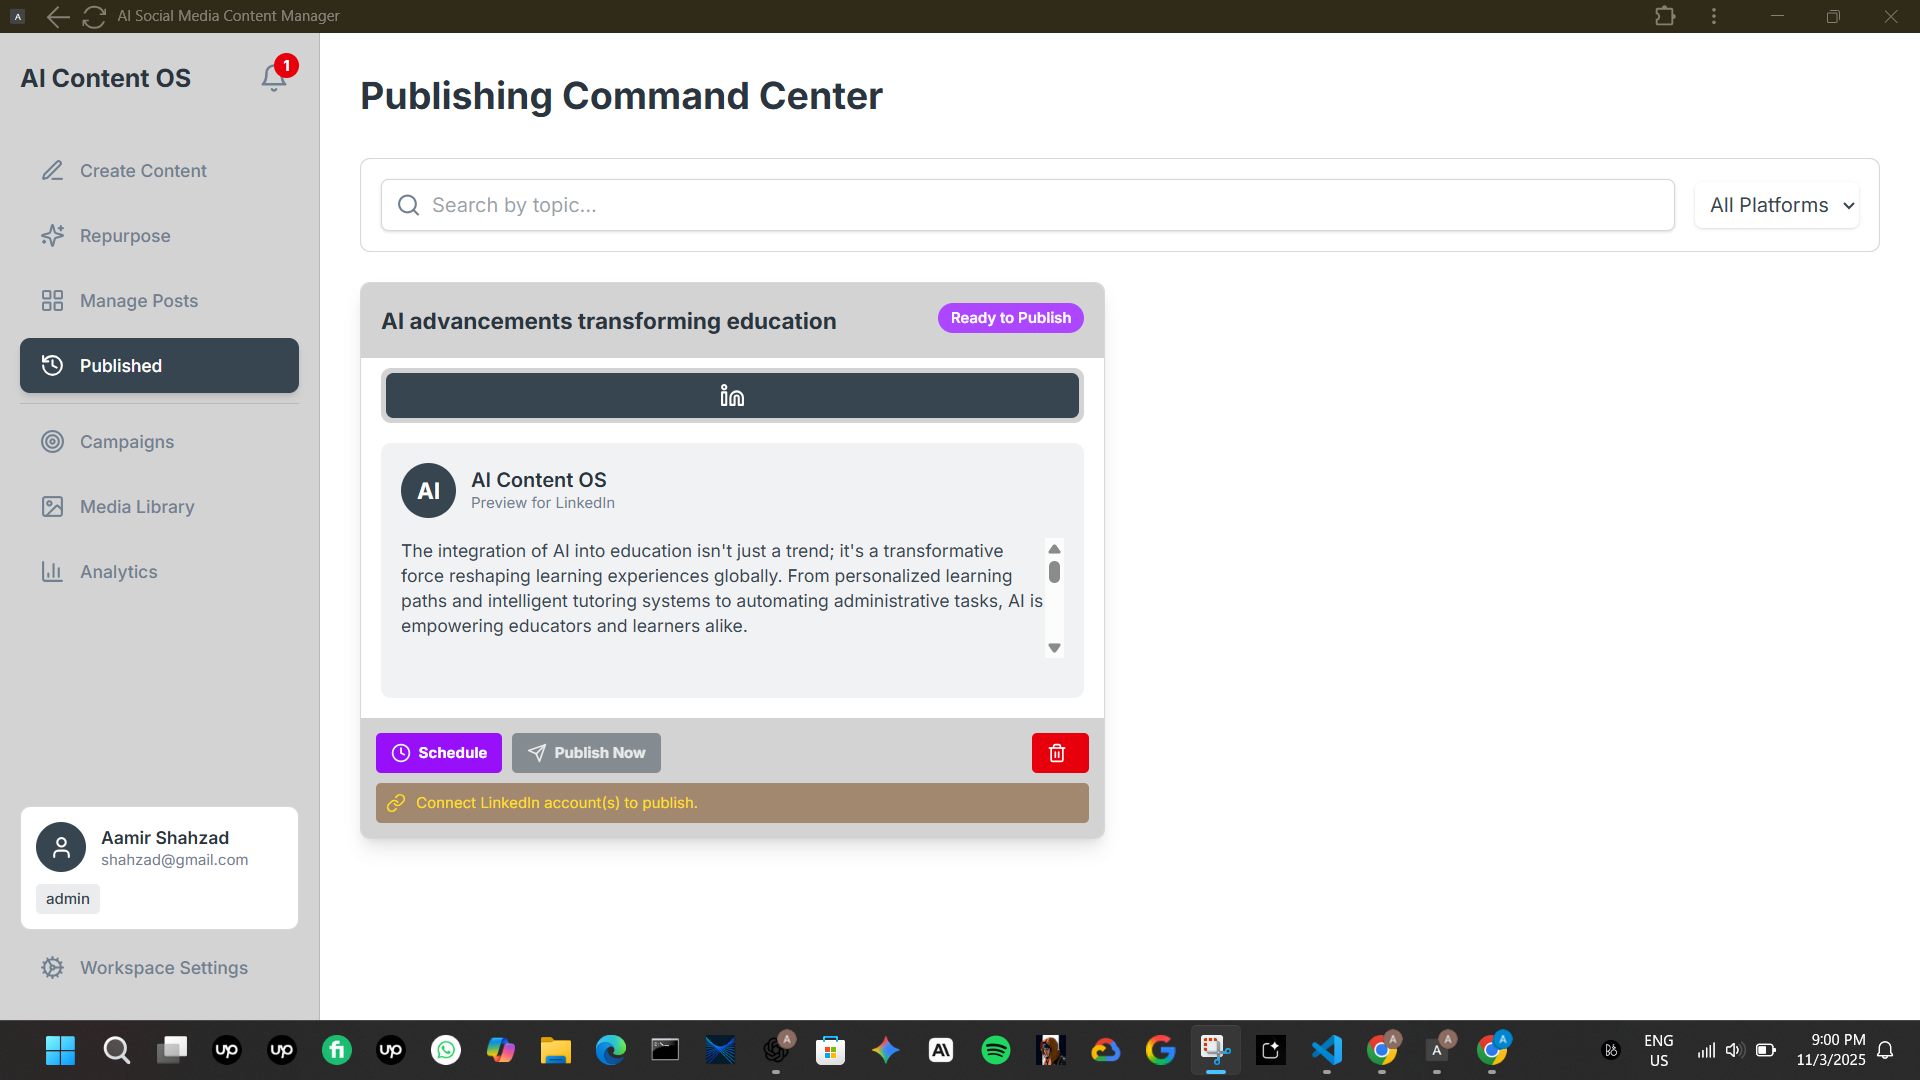
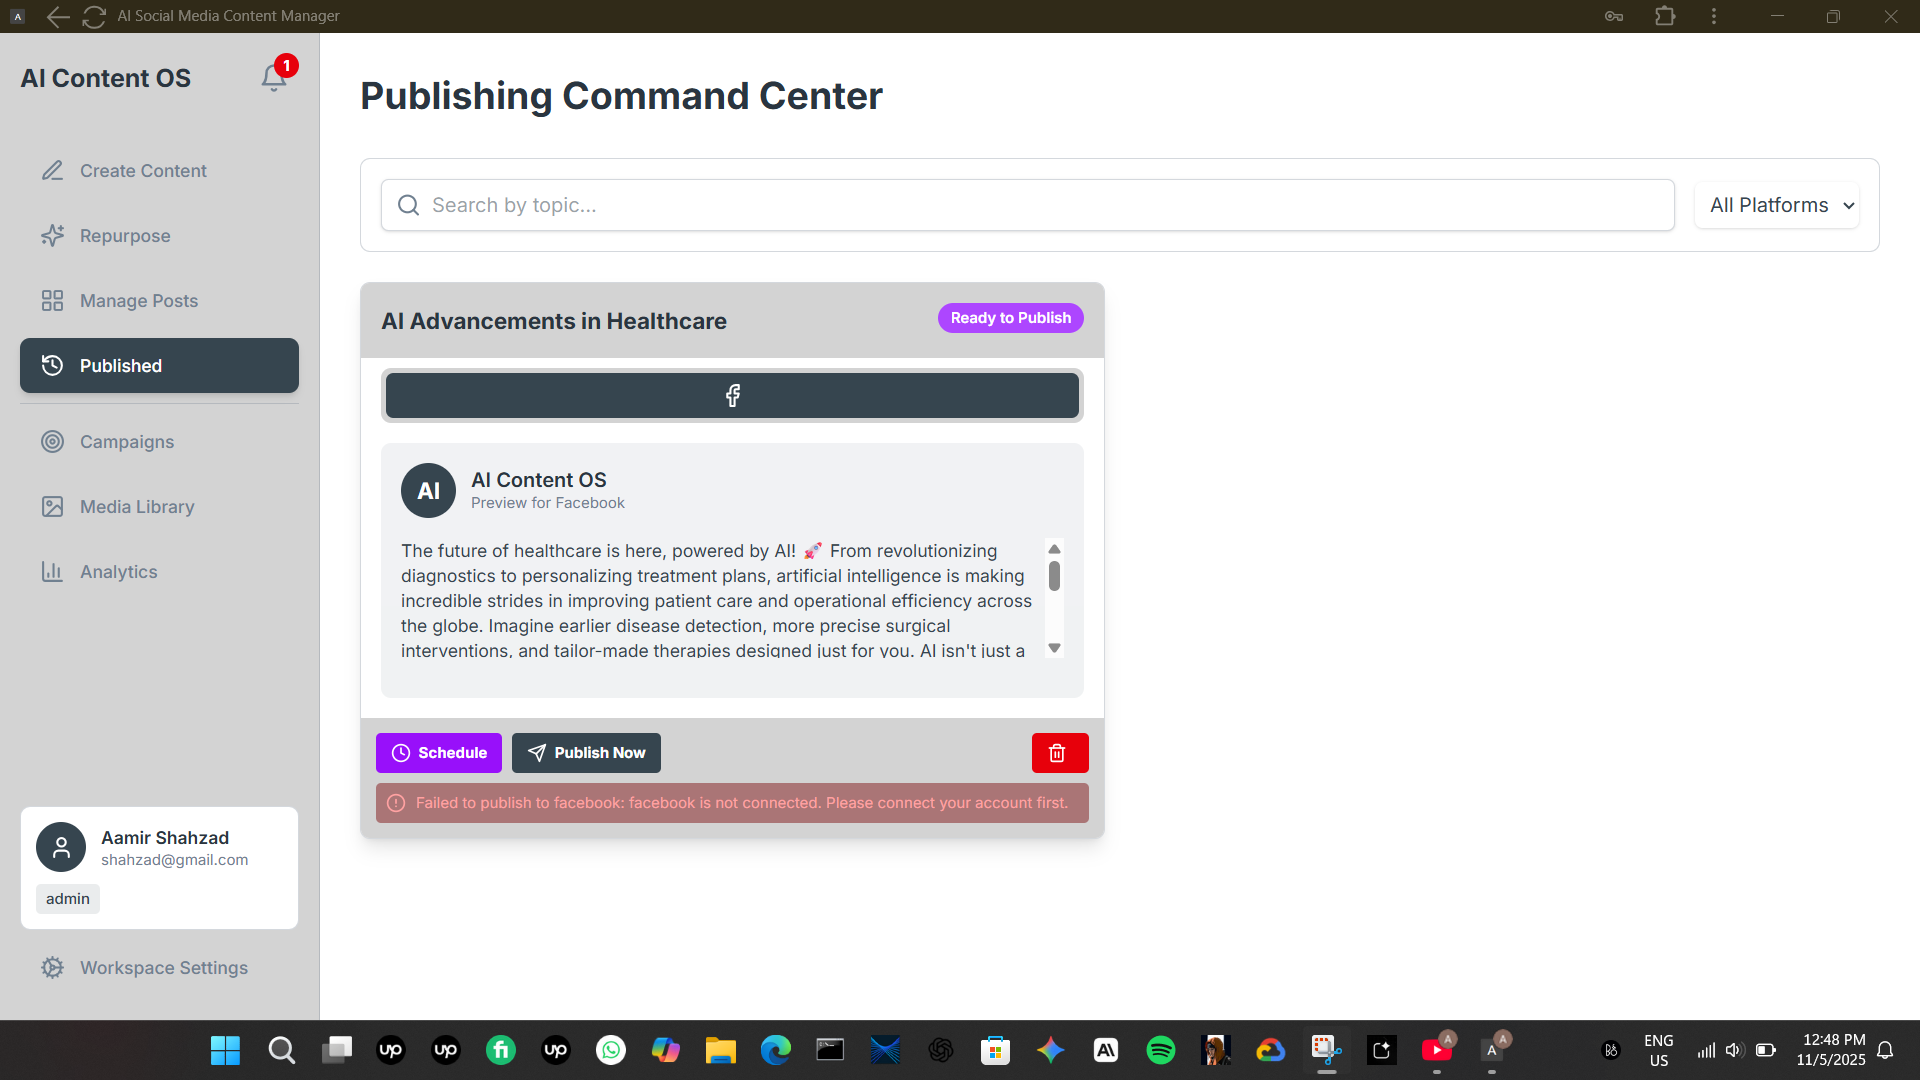
fix: Resolve Facebook publishing connection error by removing client-side credential checks
The publishing service was checking credentials from localStorage (deprecated, empty)
before calling backend APIs, causing "Facebook is not connected" errors even though
the account was properly connected.

Root Cause:
- Two credential services exist: database-based (current) and localStorage-based (deprecated)
- OAuth flow saves credentials to database only
- Publishing service was checking localStorage instead of database
- Publishing failed before reaching backend APIs that validate correctly

Solution (Quick Fix Approach):
- Remove client-side credential checks from publishingService.ts
- Remove deprecated getPlatformCredentials import from localStorage service
- Update all platform services to skip client-side checks
- Let backend APIs handle credential validation from database (correct approach)

Changes:
✓ publishingService.ts: Removed localStorage credential check, always call backend
✓ facebookService.ts: Removed isConnected checks, backend validates
✓ twitterService.ts: Removed isConnected checks, backend validates
✓ linkedinService.ts: Removed isConnected checks, backend validates
✓ instagramService.ts: Removed isConnected checks, backend validates

Backend APIs already properly validate credentials from database:
✓ /api/facebook/post validates and returns "Facebook not connected" if needed
✓ /api/twitter/post validates and returns "Twitter not connected" if needed
✓ Similar validation for LinkedIn and Instagram
[…]

diff --git a/src/services/publishingService.ts b/src/services/publishingService.ts
@@ -1,5 +1,4 @@
 import { Platform, Post, PostContent, TwitterCredentials, LinkedInCredentials, FacebookCredentials, InstagramCredentials } from '@/types';
-import { getPlatformCredentials } from './credentialService';
 import { postTweet, uploadTwitterMedia } from './platforms/twitterService';
 import { postToLinkedIn, uploadLinkedInMedia } from './platforms/linkedinService';
 import { postToFacebook, uploadFacebookPhoto } from './platforms/facebookService';
@@ -24,20 +23,13 @@ export async function publishToSinglePlatform(
 ): Promise<PublishResult> {
   // Auto-detect media type if not provided
   if (!mediaType && mediaUrl) {
-    mediaType = (mediaUrl.includes('.mp4') || mediaUrl.includes('.mov') || mediaUrl.includes('video')) 
-      ? 'video' 
+    mediaType = (mediaUrl.includes('.mp4') || mediaUrl.includes('.mov') || mediaUrl.includes('video'))
+      ? 'video'
       : 'image';
   }
   try {
-    const credentials = getPlatformCredentials(platform);
-
-    if (!credentials || !credentials.isConnected) {
-      return {
-        platform,
-        success: false,
-        error: `${platform} is not connected. Please connect your account first.`
-      };
-    }
+    // Create empty credentials object - backend API will validate actual credentials from database
+    const emptyCredentials = {} as any;
 
     let result;
 
@@ -47,8 +39,8 @@ export async function publishToSinglePlatform(
         let mediaIds: string[] | undefined;
         if (mediaUrl) {
           const mediaResult = await uploadTwitterMedia(
-            credentials as TwitterCredentials, 
-            mediaUrl, 
+            emptyCredentials as TwitterCredentials,
+            mediaUrl,
             mediaType || 'image'
           );
           if (mediaResult.success && mediaResult.mediaId) {
@@ -56,7 +48,7 @@ export async function publishToSinglePlatform(
           }
         }
 
-        result = await postTweet(credentials as TwitterCredentials, {
+        result = await postTweet(emptyCredentials as TwitterCredentials, {
           text: content,
           mediaIds
         });
@@ -68,7 +60,7 @@ export async function publishToSinglePlatform(
         let mediaUrn: string | undefined;
         if (mediaUrl) {
           const mediaResult = await uploadLinkedInMedia(
-            credentials as LinkedInCredentials, 
+            emptyCredentials as LinkedInCredentials,
             mediaUrl,
             mediaType || 'image'
           );
@@ -77,7 +69,7 @@ export async function publishToSinglePlatform(
           }
         }
 
-        result = await postToLinkedIn(credentials as LinkedInCredentials, {
+        result = await postToLinkedIn(emptyCredentials as LinkedInCredentials, {
           text: content,
           visibility: 'PUBLIC',
           mediaUrn
@@ -89,13 +81,13 @@ export async function publishToSinglePlatform(
         // Handle media upload if present
         let imageUrl: string | undefined;
         if (mediaUrl) {
-          const mediaResult = await uploadFacebookPhoto(credentials as FacebookCredentials, mediaUrl);
+          const mediaResult = await uploadFacebookPhoto(emptyCredentials as FacebookCredentials, mediaUrl);
           if (mediaResult.success && mediaResult.imageUrl) {
             imageUrl = mediaResult.imageUrl;
           }
         }
 
-        result = await postToFacebook(credentials as FacebookCredentials, {
+        result = await postToFacebook(emptyCredentials as FacebookCredentials, {
           message: content,
           imageUrl: imageUrl,
           mediaType: mediaType
@@ -113,7 +105,7 @@ export async function publishToSinglePlatform(
         }
 
         // Upload media to get public URL (Instagram requires public URLs)
-        const mediaResult = await uploadInstagramMedia(credentials as InstagramCredentials, mediaUrl);
+        const mediaResult = await uploadInstagramMedia(emptyCredentials as InstagramCredentials, mediaUrl);
         if (!mediaResult.success || !mediaResult.imageUrl) {
           return {
             platform,
@@ -122,7 +114,7 @@ export async function publishToSinglePlatform(
           };
         }
 
-        result = await postToInstagram(credentials as InstagramCredentials, {
+        result = await postToInstagram(emptyCredentials as InstagramCredentials, {
           caption: content,
           imageUrl: mediaResult.imageUrl,
           mediaType: mediaType
@@ -186,10 +178,13 @@ export async function publishPost(post: Post): Promise<PublishResult[]> {
 
 /**
  * Check if a platform is ready to publish (connected and has valid credentials)
+ * Note: This now returns true as validation is handled server-side
+ * Backend APIs will return proper errors if platform is not connected
  */
 export function isPlatformReady(platform: Platform): boolean {
-  const credentials = getPlatformCredentials(platform);
-  return credentials?.isConnected ?? false;
+  // Credential validation is now done server-side by backend APIs
+  // which have access to database credentials
+  return true;
 }
 
 /**
@@ -215,12 +210,8 @@ export function validatePostForPublishing(post: Post): { valid: boolean; errors:
     errors.push('No platforms selected');
   }
 
-  // Check if platforms are connected
-  post.platforms.forEach(platform => {
-    if (!isPlatformReady(platform)) {
-      errors.push(`${platform} is not connected`);
-    }
-  });
+  // Platform connection validation is now done server-side by backend APIs
+  // No need to check client-side since backend APIs have database access
 
   // Check if content exists for each platform
   post.platforms.forEach(platform => {

diff --git a/src/services/platforms/instagramService.ts b/src/services/platforms/instagramService.ts
@@ -88,10 +88,7 @@ export async function postToInstagram(
   options: InstagramPostOptions
 ): Promise<{ success: boolean; postId?: string; url?: string; error?: string }> {
   try {
-    if (!credentials.isConnected) {
-      return { success: false, error: 'Instagram account not connected' };
-    }
-
+    // Caption length validation is useful client-side for UX
     if (!options.caption || options.caption.length > 2200) {
       return { success: false, error: 'Caption must be between 1-2200 characters' };
     }
@@ -100,7 +97,7 @@ export async function postToInstagram(
       return { success: false, error: 'Instagram requires an image' };
     }
 
-    // Call backend to post (handles 2-step process)
+    // Call backend to post (handles 2-step process) - backend will validate credentials from database
     const response = await fetch('/api/instagram/post', {
       method: 'POST',
       headers: { 'Content-Type': 'application/json' },
@@ -140,11 +137,7 @@ export async function uploadInstagramMedia(
   mediaData: string  // base64 encoded
 ): Promise<{ success: boolean; imageUrl?: string; error?: string }> {
   try {
-    if (!credentials.isConnected) {
-      return { success: false, error: 'Instagram account not connected' };
-    }
-
-    // Call backend to upload media to Supabase Storage
+    // Call backend to upload media to Supabase Storage - backend will validate credentials from database
     const response = await fetch('/api/instagram/upload-media', {
       method: 'POST',
       headers: { 'Content-Type': 'application/json' },
@@ -180,11 +173,7 @@ export async function getInstagramProfile(
   credentials: InstagramCredentials
 ): Promise<{ success: boolean; profile?: any; error?: string }> {
   try {
-    if (!credentials.isConnected) {
-      return { success: false, error: 'Instagram account not connected' };
-    }
-
-    // Call backend to get profile
+    // Call backend to get profile - backend will validate credentials from database
     const response = await fetch('/api/instagram/verify', {
       method: 'POST',
       headers: { 'Content-Type': 'application/json' },

diff --git a/src/services/platforms/facebookService.ts b/src/services/platforms/facebookService.ts
@@ -90,15 +90,12 @@ export async function postToFacebook(
   options: FacebookPostOptions
 ): Promise<{ success: boolean; postId?: string; url?: string; error?: string }> {
   try {
-    if (!credentials.isConnected) {
-      return { success: false, error: 'Facebook account not connected' };
-    }
-
+    // Message length validation is still useful client-side for UX
     if (!options.message || options.message.length > 63206) {
       return { success: false, error: 'Message must be between 1-63206 characters' };
     }
 
-    // Call backend to post
+    // Call backend to post - backend will validate credentials from database
     const response = await fetch('/api/facebook/post', {
       method: 'POST',
       headers: { 'Content-Type': 'application/json' },
@@ -139,11 +136,7 @@ export async function uploadFacebookPhoto(
   mediaData: string  // base64 encoded
 ): Promise<{ success: boolean; imageUrl?: string; error?: string }> {
   try {
-    if (!credentials.isConnected) {
-      return { success: false, error: 'Facebook account not connected' };
-    }
-
-    // Call backend to upload media to Supabase Storage
+    // Call backend to upload media to Supabase Storage - backend will validate credentials from database
     const response = await fetch('/api/facebook/upload-media', {
       method: 'POST',
       headers: { 'Content-Type': 'application/json' },
@@ -179,11 +172,7 @@ export async function getFacebookPageInfo(
   credentials: FacebookCredentials
 ): Promise<{ success: boolean; pageInfo?: any; error?: string }> {
   try {
-    if (!credentials.isConnected) {
-      return { success: false, error: 'Facebook account not connected' };
-    }
-
-    // Call backend to get page info
+    // Call backend to get page info - backend will validate credentials from database
     const response = await fetch('/api/facebook/verify', {
       method: 'POST',
       headers: { 'Content-Type': 'application/json' },

diff --git a/src/services/platforms/linkedinService.ts b/src/services/platforms/linkedinService.ts
@@ -86,15 +86,12 @@ export async function postToLinkedIn(
   options: LinkedInPostOptions
 ): Promise<{ success: boolean; postId?: string; url?: string; error?: string }> {
   try {
-    if (!credentials.isConnected) {
-      return { success: false, error: 'LinkedIn account not connected' };
-    }
-
+    // Text length validation is useful client-side for UX
     if (!options.text || options.text.length > 3000) {
       return { success: false, error: 'Post text must be between 1-3000 characters' };
     }
 
-    // Call backend to post
+    // Call backend to post - backend will validate credentials from database
     const response = await fetch('/api/linkedin/post', {
       method: 'POST',
       headers: { 'Content-Type': 'application/json' },
@@ -135,11 +132,7 @@ export async function uploadLinkedInMedia(
   mediaType: 'image' | 'video' = 'image'
 ): Promise<{ success: boolean; mediaUrn?: string; error?: string }> {
   try {
-    if (!credentials.isConnected) {
-      return { success: false, error: 'LinkedIn account not connected' };
-    }
-
-    // Call backend to upload media
+    // Call backend to upload media - backend will validate credentials from database
     const response = await fetch('/api/linkedin/upload-media', {
       method: 'POST',
       headers: { 'Content-Type': 'application/json' },
@@ -176,11 +169,7 @@ export async function getLinkedInProfile(
   credentials: LinkedInCredentials
 ): Promise<{ success: boolean; profile?: any; error?: string }> {
   try {
-    if (!credentials.isConnected) {
-      return { success: false, error: 'LinkedIn account not connected' };
-    }
-
-    // Call backend to get profile
+    // Call backend to get profile - backend will validate credentials from database
     const response = await fetch('/api/linkedin/verify', {
       method: 'POST',
       headers: { 'Content-Type': 'application/json' },

diff --git a/src/services/platforms/twitterService.ts b/src/services/platforms/twitterService.ts
@@ -85,15 +85,12 @@ export async function postTweet(
   options: TwitterPostOptions
 ): Promise<{ success: boolean; tweetId?: string; url?: string; error?: string }> {
   try {
-    if (!credentials.isConnected) {
-      return { success: false, error: 'Twitter account not connected' };
-    }
-
+    // Text length validation is useful client-side for UX
     if (!options.text || options.text.length > 280) {
       return { success: false, error: 'Tweet text must be between 1-280 characters' };
     }
 
-    // Call backend to post tweet
+    // Call backend to post tweet - backend will validate credentials from database
     const response = await fetch('/api/twitter/post', {
       method: 'POST',
       headers: { 'Content-Type': 'application/json' },
@@ -133,11 +130,7 @@ export async function uploadTwitterMedia(
   mediaType: 'image' | 'video'
 ): Promise<{ success: boolean; mediaId?: string; error?: string }> {
   try {
-    if (!credentials.isConnected) {
-      return { success: false, error: 'Twitter account not connected' };
-    }
-
-    // Call backend to upload media
+    // Call backend to upload media - backend will validate credentials from database
     const response = await fetch('/api/twitter/upload-media', {
       method: 'POST',
       headers: { 'Content-Type': 'application/json' },
